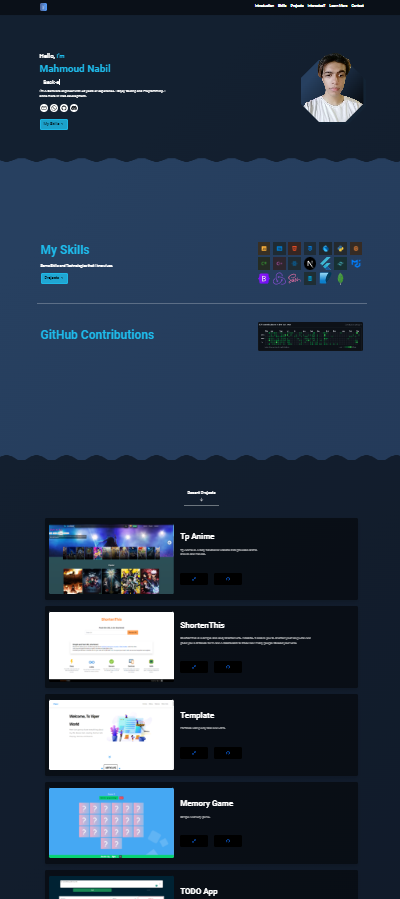
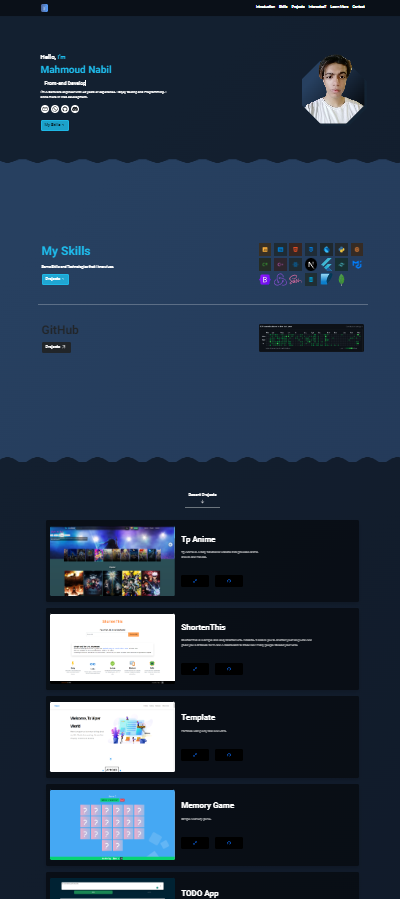
UI change.

diff --git a/components/sections/Skills.tsx b/components/sections/Skills.tsx
@@ -4,7 +4,7 @@ import React, { useState } from 'react'
 import { Button } from 'react-bootstrap';
 
 // Icons
-import { MdKeyboardArrowDown } from 'react-icons/md';
+import { MdKeyboardArrowDown, MdOutlineArrowOutward } from 'react-icons/md';
 
 // Mui
 import { Tooltip, useMediaQuery } from '@mui/material';
@@ -17,6 +17,7 @@ import ImageHolder from '@/lib/ImageHolder';
 
 // Data
 import skillsData from '@/data/skills.json'
+import Link from 'next/link';
 
 
 export default function Skills() {
@@ -42,7 +43,7 @@ export default function Skills() {
                     <p style={{fontSize: '14px'}} className='w-auto text-center text-md-start p-0 m-0 '>
                         Some Skills and Technologies that I know/use.
                     </p>
-                    <Button style={{cursor: "pointer"}} onClick={() => document?.querySelector('#projects')?.scrollIntoView({behavior: 'smooth'})} variant="info">Projects <MdKeyboardArrowDown /></Button>
+                    <Button className='text-white' style={{cursor: "pointer"}} onClick={() => document?.querySelector('#projects')?.scrollIntoView({behavior: 'smooth'})} variant="info">Projects <MdKeyboardArrowDown /></Button>
                 </motion.div>
 
                 <motion.div style={{maxWidth: '420px'}} 
@@ -79,16 +80,19 @@ export default function Skills() {
 
             <hr style={{height: "1px"}} className='w-100 bg-secondary bg-opacity-25' />
 
-            <div className='container overflow-hidden d-flex flex-column flex-md-row justify-content-between align-items-center py-5 px-md-3 rounded gap-3 gap-md-5'>
-                <motion.h2
-                    className='text-info fw-bold display-5'
-                    initial={{y: "100vh"}}
-                    animate={activeView ? {y:0} : {y: "100vh"}}
-                    transition={{delay: 0.2, duration: 0.8}}
-                    viewport={{once: true}}
+            <div className='container overflow-hidden d-flex flex-column flex-md-row justify-content-between align-items-center py-5 px-md-3 rounded gap-5 gap-md-5'>
+                <motion.div 
+                className='d-flex flex-column justify-content-center align-items-center align-items-md-start gap-2'
+                initial={{y: "100vh"}}
+                animate={activeView ? {y:0} : {y: "100vh"}}
+                transition={{delay: 0.2, duration: 0.8}}
+                viewport={{once: true}}
                 >
-                    GitHub Contributions
-                </motion.h2>
+                    <h2 className='text-dark fw-bold display-5'>GitHub</h2>
+                    <Link href={process.env.NEXT_PUBLIC_GITHUB as string} target='_blank'>
+                        <Button className='text-white text-center' style={{cursor: "pointer"}} onClick={() => document?.querySelector('#projects')?.scrollIntoView({behavior: 'smooth'})} variant="dark">Projects <MdOutlineArrowOutward size={22} /></Button>
+                    </Link>
+                </motion.div>
 
                 <motion.div 
                 style={{maxWidth: '420px', maxHeight: "130px"}} 
